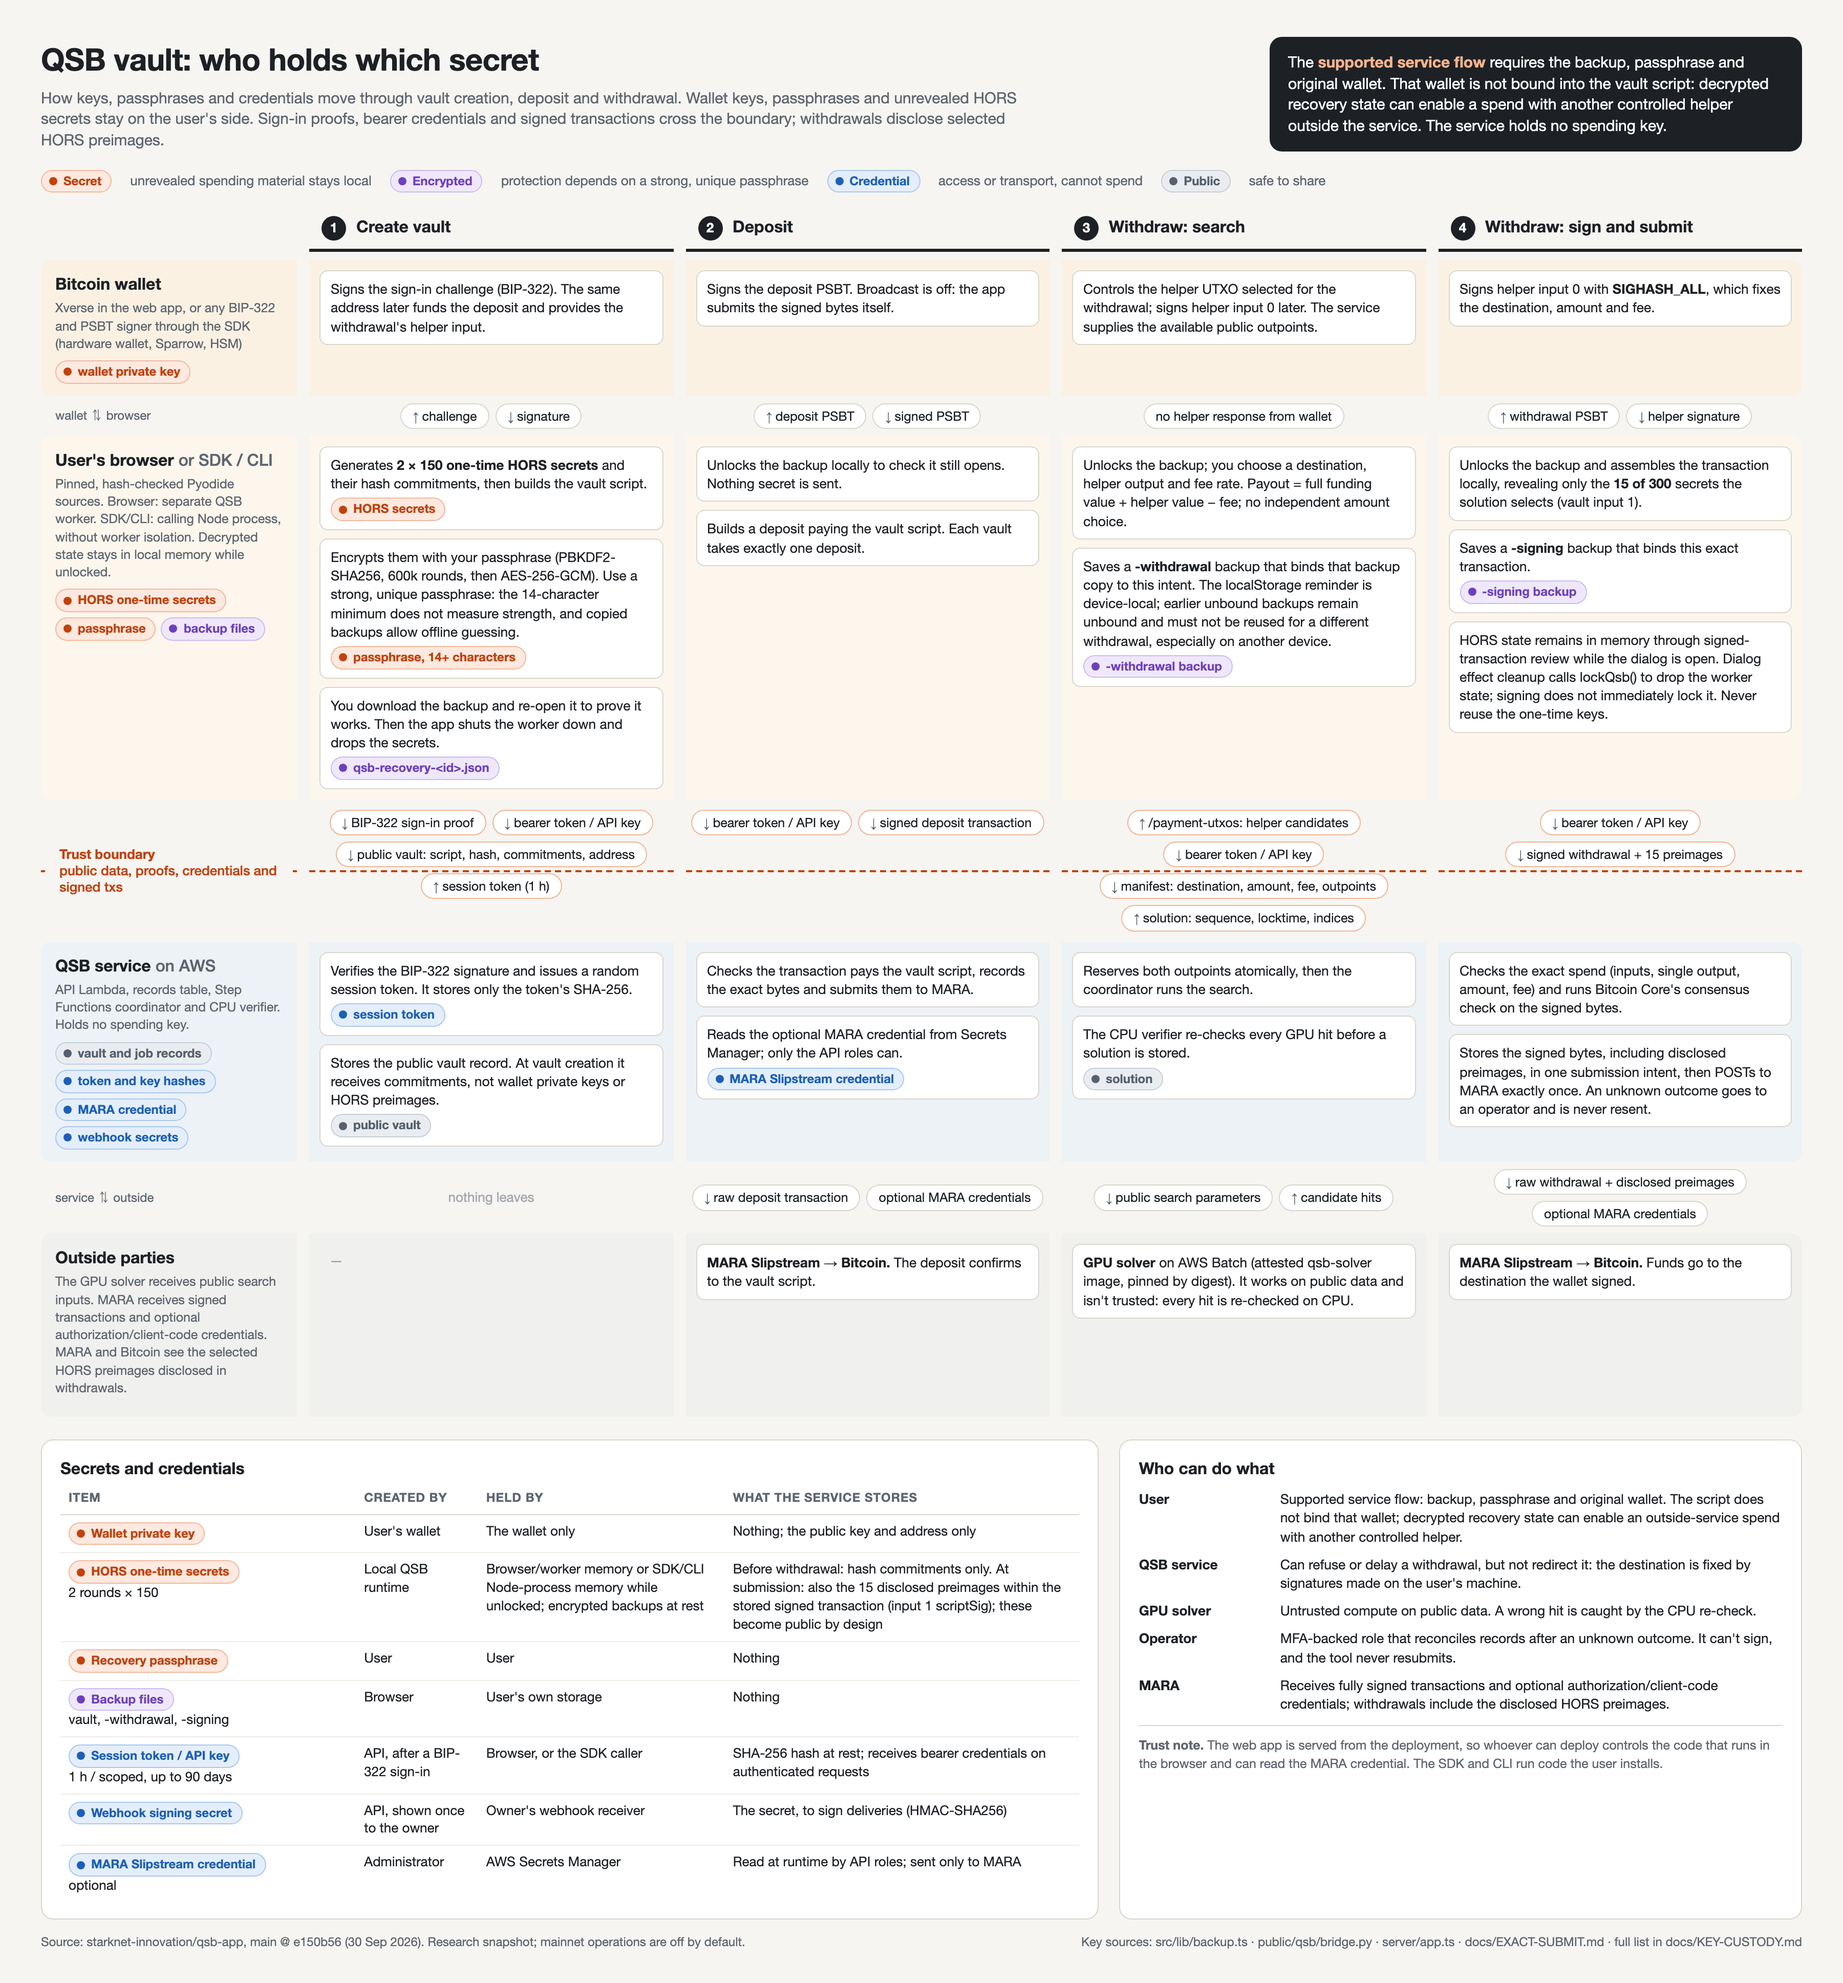
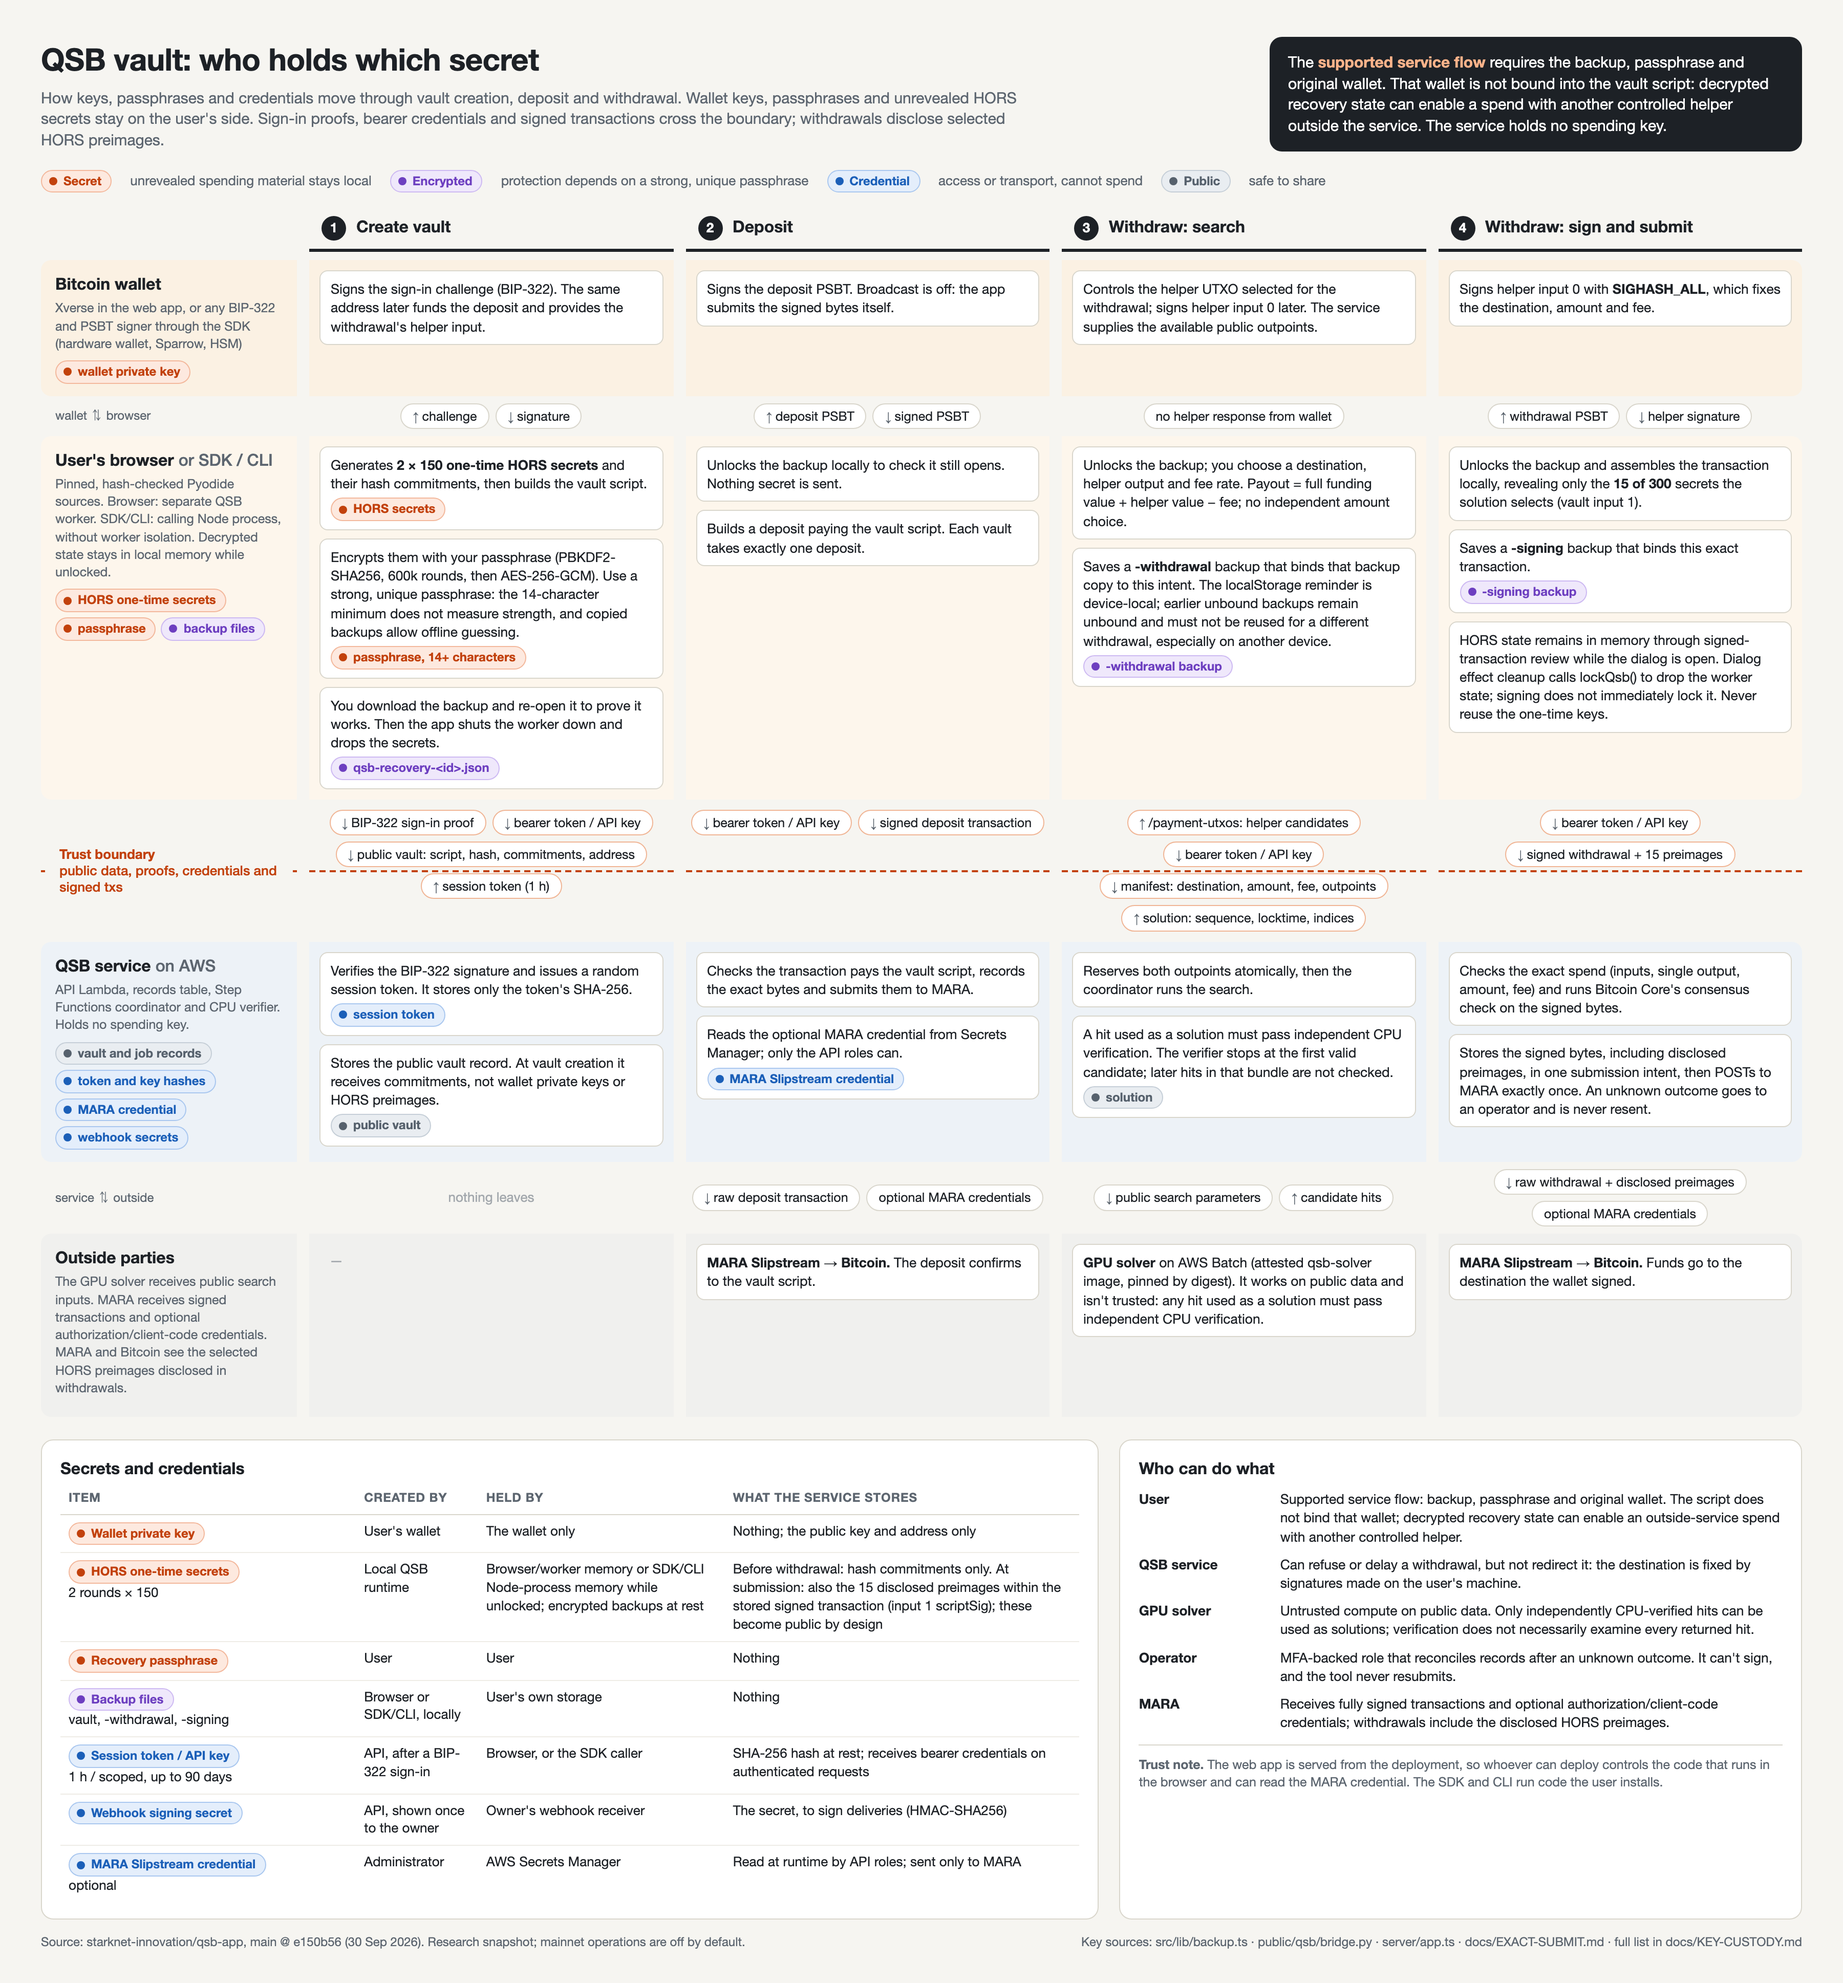
Clarify CPU verification scope and local backup creators

Changed region(s): [[0.6222, 0.8121, 0.9644, 0.9058], [0.5911, 0.4997, 0.7467, 0.5622], [0.6222, 0.6559, 0.6844, 0.6871]]

diff --git a/docs/key-custody.html b/docs/key-custody.html
@@ -231,7 +231,7 @@
   </div>
   <div class="cell service">
     <div class="step">Reserves both outpoints atomically, then the coordinator runs the search.</div>
-    <div class="step">The CPU verifier re-checks every GPU hit before a solution is stored.<br><span class="chip pub">solution</span></div>
+    <div class="step">A hit used as a solution must pass independent CPU verification. The verifier stops at the first valid candidate; later hits in that bundle are not checked.<br><span class="chip pub">solution</span></div>
   </div>
   <div class="cell service lane-end">
     <div class="step">Checks the exact spend (inputs, single output, amount, fee) and runs Bitcoin Core's consensus check on the signed bytes.</div>
@@ -255,7 +255,7 @@
     <div class="step"><b>MARA Slipstream → Bitcoin.</b> The deposit confirms to the vault script.</div>
   </div>
   <div class="cell external">
-    <div class="step"><b>GPU solver</b> on AWS Batch (attested qsb-solver image, pinned by digest). It works on public data and isn't trusted: every hit is re-checked on CPU.</div>
+    <div class="step"><b>GPU solver</b> on AWS Batch (attested qsb-solver image, pinned by digest). It works on public data and isn't trusted: any hit used as a solution must pass independent CPU verification.</div>
   </div>
   <div class="cell external lane-end">
     <div class="step"><b>MARA Slipstream → Bitcoin.</b> Funds go to the destination the wallet signed.</div>
@@ -270,7 +270,7 @@
       <tr><td><span class="chip secret">Wallet private key</span></td><td>User's wallet</td><td>The wallet only</td><td>Nothing; the public key and address only</td></tr>
       <tr><td><span class="chip secret">HORS one-time secrets</span><br>2 rounds × 150</td><td>Local QSB runtime</td><td>Browser/worker memory or SDK/CLI Node-process memory while unlocked; encrypted backups at rest</td><td>Before withdrawal: hash commitments only. At submission: also the 15 disclosed preimages within the stored signed transaction (input 1 scriptSig); these become public by design</td></tr>
       <tr><td><span class="chip secret">Recovery passphrase</span></td><td>User</td><td>User</td><td>Nothing</td></tr>
-      <tr><td><span class="chip enc">Backup files</span><br>vault, -withdrawal, -signing</td><td>Browser</td><td>User's own storage</td><td>Nothing</td></tr>
+      <tr><td><span class="chip enc">Backup files</span><br>vault, -withdrawal, -signing</td><td>Browser or SDK/CLI, locally</td><td>User's own storage</td><td>Nothing</td></tr>
       <tr><td><span class="chip cred">Session token / API key</span><br>1 h / scoped, up to 90 days</td><td>API, after a BIP-322 sign-in</td><td>Browser, or the SDK caller</td><td>SHA-256 hash at rest; receives bearer credentials on authenticated requests</td></tr>
       <tr><td><span class="chip cred">Webhook signing secret</span></td><td>API, shown once to the owner</td><td>Owner's webhook receiver</td><td>The secret, to sign deliveries (HMAC-SHA256)</td></tr>
       <tr><td><span class="chip cred">MARA Slipstream credential</span><br>optional</td><td>Administrator</td><td>AWS Secrets Manager</td><td>Read at runtime by API roles; sent only to MARA</td></tr>
@@ -281,7 +281,7 @@
     <div class="who">
       <div><b>User</b><span>Supported service flow: backup, passphrase and original wallet. The script does not bind that wallet; decrypted recovery state can enable an outside-service spend with another controlled helper.</span></div>
       <div><b>QSB service</b><span>Can refuse or delay a withdrawal, but not redirect it: the destination is fixed by signatures made on the user's machine.</span></div>
-      <div><b>GPU solver</b><span>Untrusted compute on public data. A wrong hit is caught by the CPU re-check.</span></div>
+      <div><b>GPU solver</b><span>Untrusted compute on public data. Only independently CPU-verified hits can be used as solutions; verification does not necessarily examine every returned hit.</span></div>
       <div><b>Operator</b><span>MFA-backed role that reconciles records after an unknown outcome. It can't sign, and the tool never resubmits.</span></div>
       <div><b>MARA</b><span>Receives fully signed transactions and optional authorization/client-code credentials; withdrawals include the disclosed HORS preimages.</span></div>
     </div>

diff --git a/docs/KEY-CUSTODY.md b/docs/KEY-CUSTODY.md
@@ -43,8 +43,8 @@ Who holds each key, passphrase and credential through vault creation, deposit an
 | Wallet ↔ browser | No helper UTXO response comes from Xverse here. The browser gets candidates from the authenticated service's /payment-utxos endpoint. |
 | Browser | Unlocks the backup; the user chooses a destination, helper output and fee rate. The payout is calculated as the full funding value plus the helper value minus the fee; there is no independent withdrawal-amount choice. Saves a `-withdrawal` backup that binds that backup copy to this intent. The localStorage reminder is device-local; earlier unbound backups remain unbound and must not be reused for a different withdrawal, especially on another device. |
 | Crosses to the service | A bearer session token or API key and the withdrawal manifest: destination, amount, fee, and the funding and helper outpoints. The authenticated service supplies helper candidates through /payment-utxos. The service later returns the solution: sequence, locktime and the selected indices. |
-| Service | Reserves both outpoints atomically, then the coordinator runs the search. The CPU verifier re-checks every GPU hit before a solution is stored. |
-| Outside parties | The GPU solver on AWS Batch (attested qsb-solver image, pinned by digest) receives public search parameters and returns candidate hits. It isn't trusted: every hit is re-checked on CPU. |
+| Service | Reserves both outpoints atomically, then the coordinator runs the search. A hit used as a solution must pass independent CPU verification. The verifier stops at the first valid candidate; later hits in that bundle are not checked. |
+| Outside parties | The GPU solver on AWS Batch (attested qsb-solver image, pinned by digest) receives public search parameters and returns candidate hits. It isn't trusted: any hit used as a solution must pass independent CPU verification. |
 
 ## 4. Withdraw: sign and submit
 
@@ -64,7 +64,7 @@ Who holds each key, passphrase and credential through vault creation, deposit an
 | Wallet private key | User's wallet | The wallet only | Nothing; the public key and address only |
 | HORS one-time secrets, 2 rounds × 150 | Local QSB runtime | Browser/worker memory or SDK/CLI Node-process memory while unlocked; encrypted backups at rest | Before withdrawal: hash commitments only. At submission: also the 15 disclosed preimages within the stored signed transaction (input 1 scriptSig); these become public by design |
 | Recovery passphrase | User | User | Nothing |
-| Backup files: vault, `-withdrawal`, `-signing` | Browser | User's own storage | Nothing |
+| Backup files: vault, `-withdrawal`, `-signing` | Browser or SDK/CLI, locally | User's own storage | Nothing |
 | Session token (1 hour) / API key (scoped, up to 90 days) | API, after a BIP-322 sign-in | Browser, or the SDK caller | SHA-256 hash at rest; receives the bearer credential on authenticated requests |
 | Webhook signing secret | API, shown once to the owner | Owner's webhook receiver | The secret, to sign deliveries (HMAC-SHA256) |
 | MARA Slipstream credential (optional) | Administrator | AWS Secrets Manager | Read at runtime by API roles; sent only to MARA |
@@ -73,7 +73,7 @@ Who holds each key, passphrase and credential through vault creation, deposit an
 
 - **User**: the supported service flow requires their backup, passphrase and original wallet. The vault script does not bind that wallet; possession of decrypted recovery state can enable an outside-service spend using another controlled helper.
 - **QSB service**: can refuse or delay a withdrawal, but not redirect it: the destination is fixed by signatures made on the user's machine.
-- **GPU solver**: untrusted compute on public data. A wrong hit is caught by the CPU re-check.
+- **GPU solver**: untrusted compute on public data. Only independently CPU-verified hits can be used as solutions; verification does not necessarily examine every returned hit.
 - **Operator**: an MFA-backed role that reconciles records after an unknown outcome. It can't sign, and the tool never resubmits.
 - **MARA**: receives fully signed transactions and optional authorization/client-code credentials; withdrawals include the disclosed HORS preimages.
 
@@ -81,4 +81,4 @@ Who holds each key, passphrase and credential through vault creation, deposit an
 
 ## Sources
 
-Written against `main` at `e150b56` (30 September 2026): `src/lib/backup.ts`, `public/qsb/bridge.py`, `public/qsb/qsb_pipeline.py`, `src/lib/wallet.ts`, `src/mainnet/localSignature.ts`, `server/app.ts`, `server/scoped-keys.ts`, `server/webhooks.ts`, `terraform/variables.tf`, `src/TransactionDialog.tsx`, `server/providers.ts`, `server/submit-exact.ts`, `src/App.tsx`, `server/transaction-checks.ts`, `sdk/runtime.ts`, `sdk/client.ts` and [EXACT-SUBMIT.md](EXACT-SUBMIT.md). Keep this page, `key-custody.html` and `key-custody.png` in step; see "Docs" in `AGENTS.md`.
+Written against `main` at `e150b56` (30 September 2026): `src/lib/backup.ts`, `public/qsb/bridge.py`, `public/qsb/qsb_pipeline.py`, `src/lib/wallet.ts`, `src/mainnet/localSignature.ts`, `server/app.ts`, `server/scoped-keys.ts`, `server/webhooks.ts`, `terraform/variables.tf`, `src/TransactionDialog.tsx`, `server/providers.ts`, `server/submit-exact.ts`, `src/App.tsx`, `server/transaction-checks.ts`, `sdk/runtime.ts`, `sdk/client.ts`, `sdk/cli.ts`, `worker/cpu/handler.py` and [EXACT-SUBMIT.md](EXACT-SUBMIT.md). Keep this page, `key-custody.html` and `key-custody.png` in step; see "Docs" in `AGENTS.md`.
